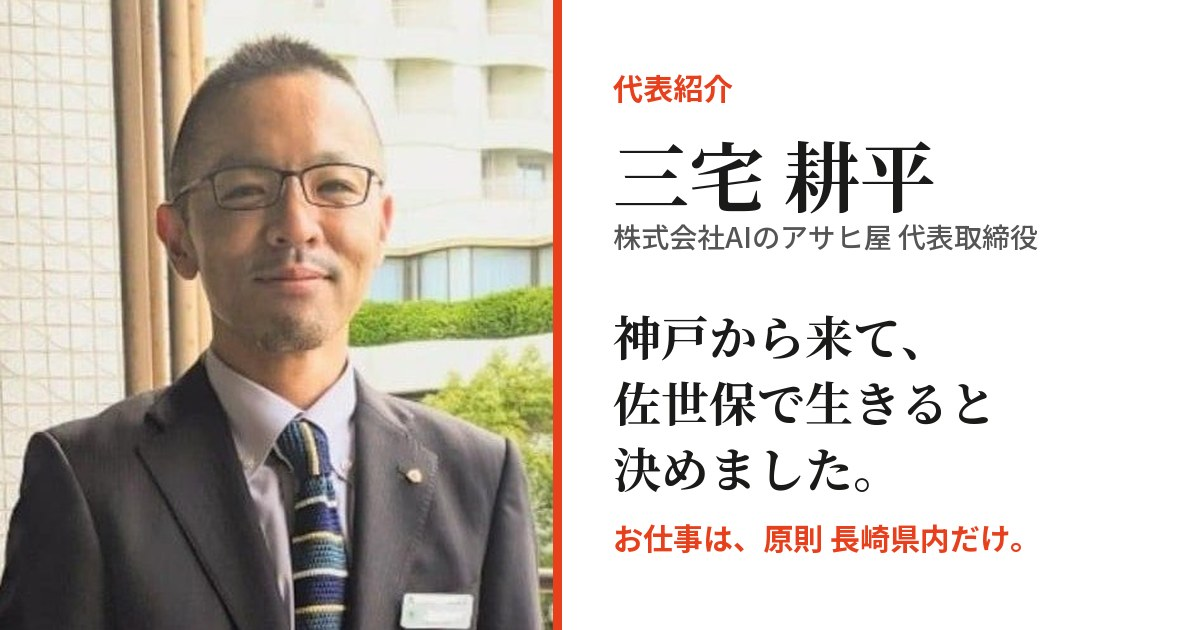
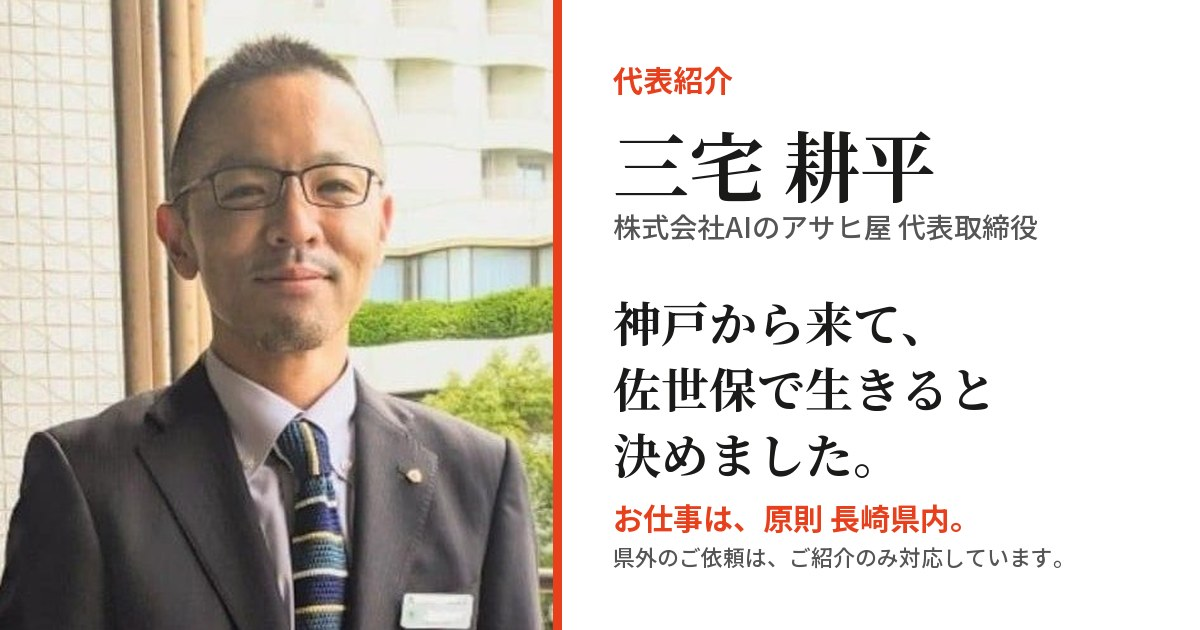
代表紹介：DX推進課の行を「大手企業のDX推進課に入社」に。「原則 長崎県内だけ」→「原則 長崎県内。県外のご依頼はご紹介のみ対応」（ページ・説明文・シェア用画像・トップのカード）

Changed region(s): [[0.4933, 0.4825, 0.8942, 0.9048], [0.4933, 0.2111, 0.8633, 0.4222], [0.4933, 0.0905, 0.6167, 0.181]]

diff --git a/about/index.html b/about/index.html
@@ -5,14 +5,14 @@
 <meta name="viewport" content="width=device-width, initial-scale=1.0">
 
 <title>代表紹介 三宅耕平｜株式会社AIのアサヒ屋（長崎県佐世保市）</title>
-<meta name="description" content="株式会社AIのアサヒ屋 代表取締役 三宅耕平のごあいさつ。神戸から佐世保へ移り住み、お仕事は原則 長崎県内だけ。経歴・実績・資格、佐世保キックボクシング倶楽部の活動。">
+<meta name="description" content="株式会社AIのアサヒ屋 代表取締役 三宅耕平のごあいさつ。神戸から佐世保へ移り住み、お仕事は原則 長崎県内（県外はご紹介のみ）。経歴・実績・資格、佐世保キックボクシング倶楽部の活動。">
 <meta name="robots" content="index, follow">
 <link rel="canonical" href="https://asahiya-ai.com/about/">
 <link rel="icon" href="../images/logo.png">
 
 <meta property="og:type" content="profile">
 <meta property="og:title" content="代表紹介 三宅耕平｜株式会社AIのアサヒ屋">
-<meta property="og:description" content="神戸から来て、佐世保で生きると決めました。お仕事は、原則 長崎県内だけ。">
+<meta property="og:description" content="神戸から来て、佐世保で生きると決めました。お仕事は、原則 長崎県内。県外はご紹介のみ対応しています。">
 <meta property="og:url" content="https://asahiya-ai.com/about/">
 <meta property="og:image" content="https://asahiya-ai.com/about/images/ogp.jpg">
 <meta property="og:site_name" content="株式会社AIのアサヒ屋">
@@ -106,6 +106,7 @@
   .hero h1 span { display: inline-block; }
   .vow { margin-top: 26px; padding: 12px 0 12px 18px; border-left: 4px solid var(--sun); font-weight: 900; font-size: 19px; color: var(--ink); }
   .vow a { text-decoration: none; }
+  .vow small { display: block; font-size: 14px; font-weight: 500; color: var(--gray); margin-top: 2px; }
   .hero-facts { list-style: none; display: flex; flex-wrap: wrap; gap: 8px 22px; margin-top: 22px; font-size: 14px; color: var(--gray); }
   .hero-facts li::before { content: '■'; color: var(--sun); font-size: 9px; margin-right: 6px; vertical-align: 2px; }
 
@@ -131,6 +132,7 @@
   .decl { font-family: var(--serif); font-weight: 900; font-size: clamp(28px, 4vw, 42px); line-height: 1.5; color: var(--ink); }
   .decl span, .quote span { display: inline-block; }
   .decl-sub { margin-top: 10px; font-size: 17px; }
+  .decl-note { margin-top: 4px; font-size: 15px; color: var(--gray); }
   .stat { margin: 36px 0; display: grid; grid-template-columns: auto 1fr; gap: 6px 32px; align-items: center;
     padding: 26px 30px; background: #fff; border: 1px solid var(--rule); border-left: 4px solid var(--sun); }
   .stat-num { grid-row: span 2; font-family: var(--serif); font-weight: 900; color: var(--sun); line-height: 1.2; }
@@ -316,7 +318,7 @@
       <p class="hero-kana">みやけ こうへい</p>
       <p class="hero-title">株式会社AIのアサヒ屋　代表取締役</p>
       <h1>神戸から来て、<br><span>佐世保で生きると</span><span>決めました。</span></h1>
-      <p class="vow"><a href="#nagasaki">お仕事は、原則 長崎県内だけ。</a></p>
+      <p class="vow"><a href="#nagasaki">お仕事は、原則 長崎県内。<small>県外のご依頼は、ご紹介のみ対応しています。</small></a></p>
       <ul class="hero-facts">
         <li>兵庫県神戸市 出身</li>
         <li>長崎県佐世保市 在住</li>
@@ -360,7 +362,7 @@
         <span>HACCP（食品の衛生管理の仕組み）の認定工場を取得。学校給食の品評会では、最下位だったチームを3年連続の最優秀賞へ。2011年には中小企業大学校で、経営分析・助成金の活用・業務改善を学ぶ。</span></td></tr>
       <tr><th>2021年</th><td><b>Iターンで長崎県へ。食品工場の立ち上げに携わる。</b></td></tr>
       <tr><th>2023年</th><td><b>佐世保へ。9月、趣味として地域の仲間と集まり、佐世保キックボクシング倶楽部の開催がスタート。</b></td></tr>
-      <tr><th>佐世保で</th><td><b>大手企業のDX推進課に採用後は、アウトソーシング部門の責任者として様々なプロジェクトを経験。</b>
+      <tr><th>佐世保で</th><td><b>大手企業のDX推進課に入社。</b>
         <span>最優秀プロジェクトとして、2年連続のチーム賞を受賞。</span></td></tr>
       <tr><th>2026年</th><td><b>独立。10月13日、株式会社AIのアサヒ屋を設立。</b></td></tr>
     </table>
@@ -371,8 +373,9 @@
 <section class="sec" id="nagasaki">
   <div class="wrap">
     <h2>長崎への想い</h2>
-    <p class="decl"><span>お仕事は、</span><span>原則 長崎県内だけ。</span></p>
+    <p class="decl"><span>お仕事は、</span><span>原則 長崎県内。</span></p>
     <p class="decl-sub">そう決めています。この街で、家族と生きていくと決めたからです。</p>
+    <p class="decl-note">県外のご依頼は、ご紹介のみ対応しています。</p>
 
     <div class="stat">
       <p class="stat-num"><small>全国の市町村で</small><b>ワースト1位</b></p>

diff --git a/index.html b/index.html
@@ -1017,7 +1017,7 @@
       <span class="report-body">
         <span class="eyebrow">代表紹介</span>
         <span class="report-title">神戸から来て、佐世保で生きると決めました。</span>
-        <span class="report-desc">代表 三宅耕平のごあいさつと経歴です。お仕事は、原則 長崎県内だけ。佐世保キックボクシング倶楽部の活動も。</span>
+        <span class="report-desc">代表 三宅耕平のごあいさつと経歴です。お仕事は、原則 長崎県内（県外はご紹介のみ）。佐世保キックボクシング倶楽部の活動も。</span>
         <span class="report-more">代表紹介を見る <span class="arrow">→</span></span>
       </span>
     </a>
